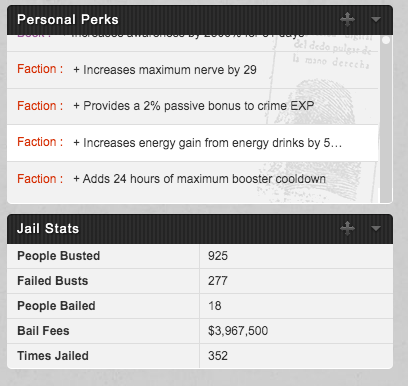
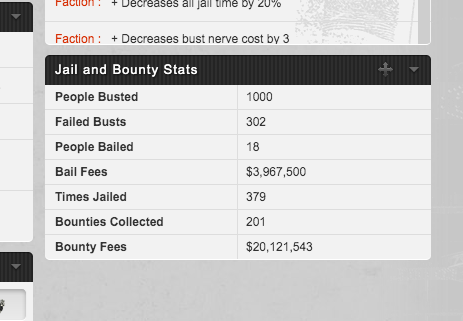
Added Bounty info as well
Didn't want to make a new script for just these two items, so put them here.

diff --git a/JailStats/Torn Jail Stats.user.js b/JailStats/Torn Jail Stats.user.js
@@ -2,7 +2,7 @@
 // @name         Torn Jail Stats
 // @namespace    http://tampermonkey.net/
 // @version      0.2
-// @description  Adds basic jail stats to the Home page, jail busts and fails.
+// @description  Adds basic jail stats to the Home page, jail busts and fails, bails and bail fees.
 // @author       xedx [2100735]
 // @include      https://www.torn.com/index.php
 // @connect      tornstats.com
@@ -61,7 +61,7 @@
         var contentDiv = createContentDiv(); // This call also queries the Torn API...
 
         extDiv.appendChild(hdrDiv);
-        hdrDiv.appendChild(document.createTextNode('Jail Stats'));
+        hdrDiv.appendChild(document.createTextNode('Jail and Bounty Stats'));
         extDiv.appendChild(bodyDiv);
         bodyDiv.appendChild(contentDiv);
 
@@ -112,7 +112,7 @@
         var contentDiv = document.createElement('div');
         contentDiv.id = 'xedx-jail-stats-content-div';
         contentDiv.className = 'cont-gray bottom-round';
-        contentDiv.setAttribute('style', 'width: 386px; height: 124px; overflow: auto');
+        contentDiv.setAttribute('style', 'width: 386px; height: 174px; overflow: auto');
 
         var ulList = document.createElement('ul')
         ulList.className = 'info-cont-wrap';
@@ -123,24 +123,32 @@
         var jailBailsLi = document.createElement('li');
         var jailFeesLi = document.createElement('li');
         var jailJailsLi = document.createElement('li');
+        var bountiesLi = document.createElement('li');
+        var bountiesFeesLi = document.createElement('li');
 
         jailBustsLi.appendChild(createDividerSpan('People Busted'));
         jailFailsLi.appendChild(createDividerSpan('Failed Busts'));
         jailBailsLi.appendChild(createDividerSpan('People Bailed'));
         jailFeesLi.appendChild(createDividerSpan('Bail Fees'));
         jailJailsLi.appendChild(createDividerSpan('Times Jailed'));
+        bountiesLi.appendChild(createDividerSpan('Bounties Collected'));
+        bountiesFeesLi.appendChild(createDividerSpan('Bounty Fees'));
 
         jailBustsLi.appendChild(createValueSpan('peoplebusted'));
         jailFailsLi.appendChild(createValueSpan('failedbusts'));
         jailBailsLi.appendChild(createValueSpan('peoplebought'));
         jailFeesLi.appendChild(createValueSpan('peopleboughtspent'));
         jailJailsLi.appendChild(createValueSpan('jailed'));
+        bountiesLi.appendChild(createValueSpan('bountiescollected'));
+        bountiesFeesLi.appendChild(createValueSpan('totalbountyreward'));
 
         ulList.appendChild(jailBustsLi);
         ulList.appendChild(jailFailsLi);
         ulList.appendChild(jailBailsLi);
         ulList.appendChild(jailFeesLi);
         ulList.appendChild(jailJailsLi);
+        ulList.appendChild(bountiesLi);
+        ulList.appendChild(bountiesFeesLi);
 
         return contentDiv;
     }
@@ -188,9 +196,6 @@
     //////////////////////////////////////////////////////////////////////
 
     function queryPersonalStats(name) {
-        //if (name != 'peoplebusted' && name != 'failedbusts' && name != 'jailed') {
-        //    return 'N/A';
-        //}
 
         personalStatsQuery(name); // Callback will set the correct values.
 
@@ -275,6 +280,15 @@
                 var ret = '$' + numberWithCommas(stats.peopleboughtspent);
                 valSpan.innerText = ret; //stats.peopleboughtspent;
                 return jsonResp.peopleboughtspent;
+                break;
+            case 'bountiescollected':
+                valSpan.innerText = stats.bountiescollected;
+                return jsonResp.bountiescollected;
+                break;
+            case 'totalbountyreward':
+                ret = '$' + numberWithCommas(stats.totalbountyreward);
+                valSpan.innerText = ret;
+                return jsonResp.totalbountyreward;
                 break;
             default:
                 return 'N/A';
